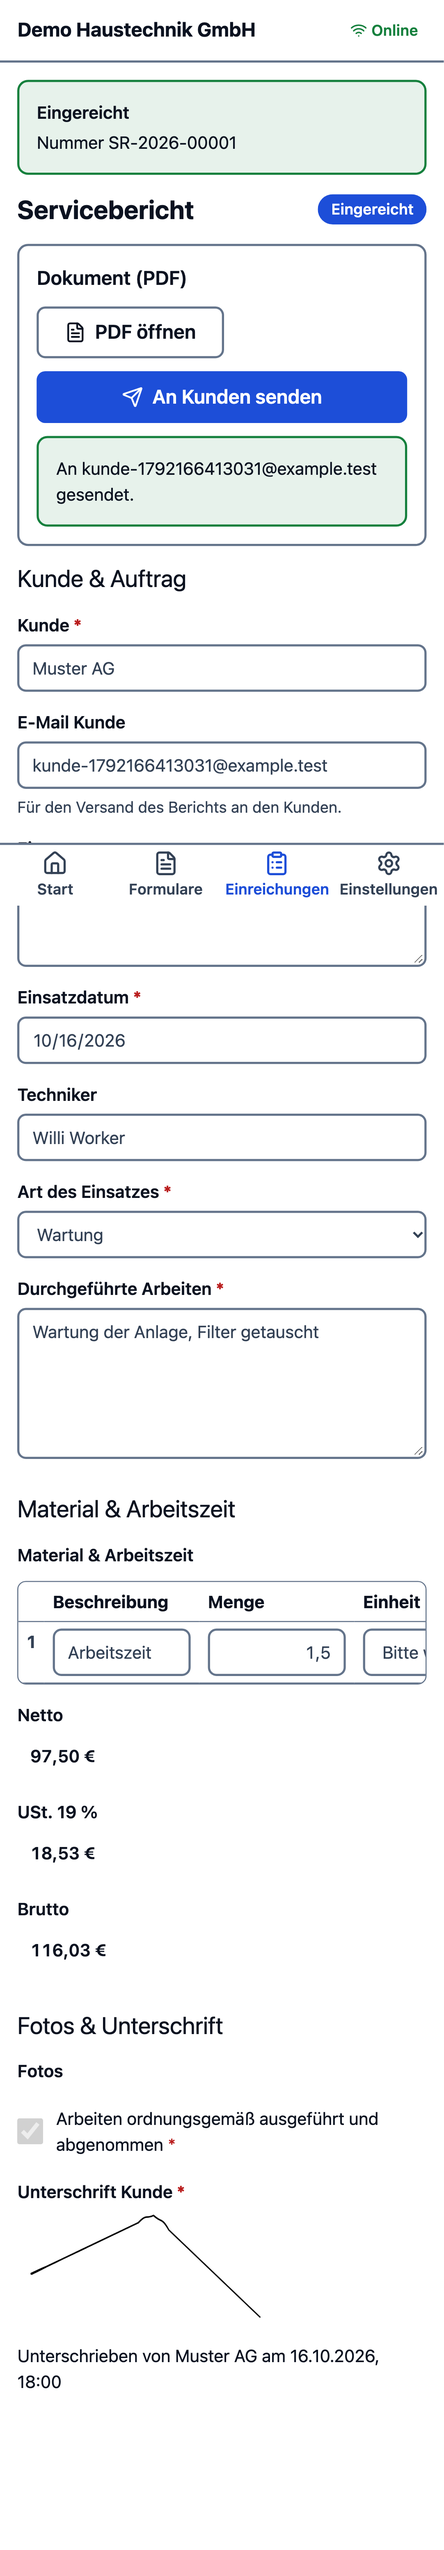
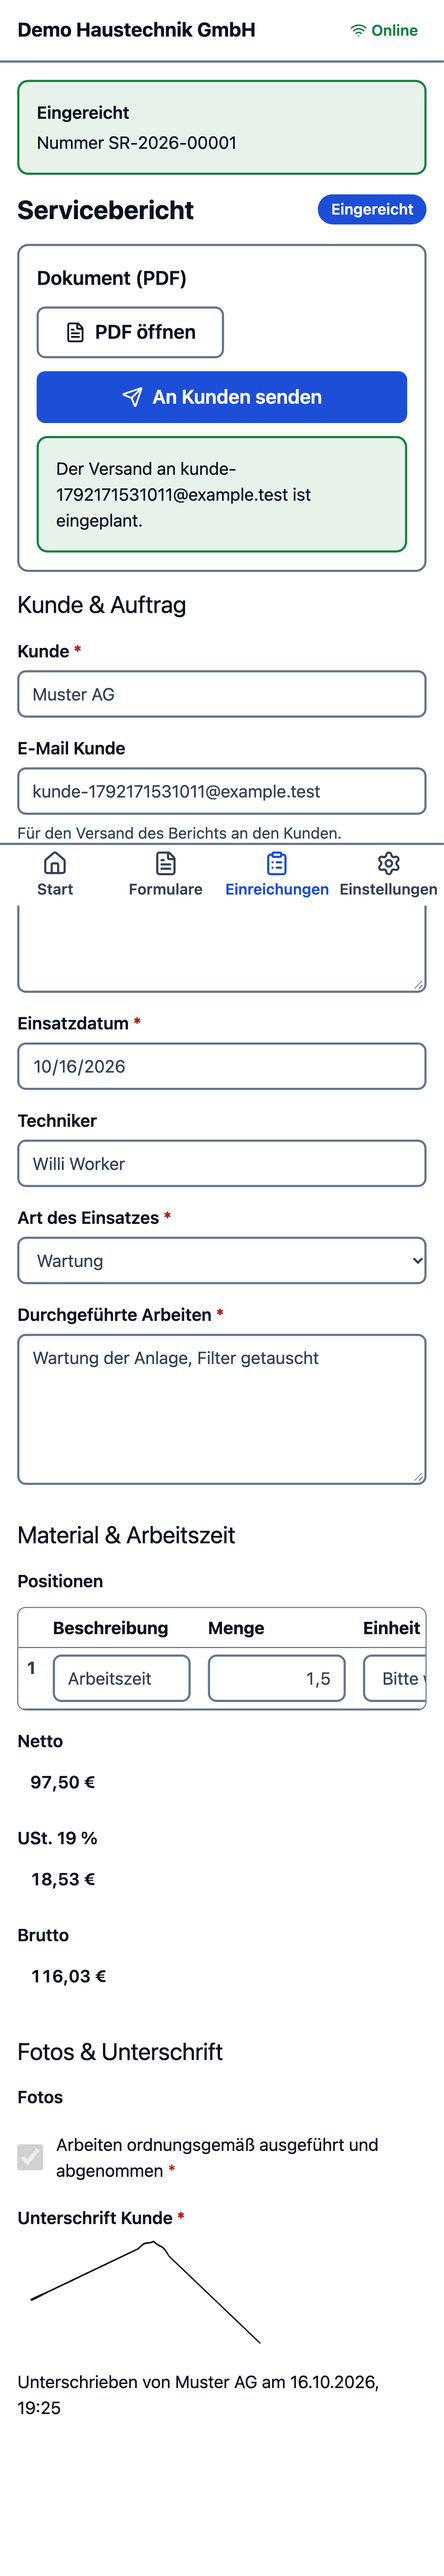
docs: M3 gate report

diff --git a/docs/agent/milestones/M3.md b/docs/agent/milestones/M3.md
@@ -1,0 +1,77 @@
+# M3 Documents + email — gate report (2026-10-17)
+
+## What was built
+- **Branding** (page "Branding"): sniffed, re-encoded logo on the private disk, primary/accent colours
+  with a live contrast warning, four bundled OFL fonts (resources/fonts, licences included), company
+  details (single source; the organization profile no longer edits them).
+- **Designs**: `designs` + immutable `design_versions` (DB trigger), publish/rollback (N+1)/diff/retire,
+  default design per organization, Filament resource (paper, orientation, margins, header/footer rich
+  text with escaped tokens, layout, repeaters, photo grid, empty fields, signature placement, watermark).
+- **Rendering** (ADR 0028): canonical input → Blade + print CSS → Gotenberg (no network, JavaScript off),
+  tagged PDF with real headings, `th scope`, alt texts and full locale; repeated table headers,
+  `keepTogether`, no truncation; inlined assets (photos ≤ 1600 px, EXIF orientation, 25 MP limit), 25 MB
+  budget; Intl formatting without floats; contrast-safe brand colours.
+- **Renditions**: immutable (input_hash, file_sha256, form/design/renderer versions, page count),
+  generated on submit, idempotent per request, design version pinned by the first rendition; failures
+  recorded (409 `document_failed`, inbox notice, audit) and a sweep re-dispatches missing renders
+  (ADR 0031); `GET /api/v1/submissions/{uuid}/document` (signed 5-minute link, visibility re-checked).
+- **Builder "Preview PDF"** with sample data and the selected design.
+- **Mail** (ADR 0029): per-org sender name/reply-to, optional SMTP override (encrypted, IP-pinned with
+  SNI, port allow-list, password re-entry on host change), queued delivery with exactly-once claim and
+  deterministic Message-ID, `mail_messages` log with retry, branded Markdown mails with a safe token
+  replacer, test mail; document delivery as attachment (≤ 10 MB) or expiring link (14 days, 410).
+- **Send to customer** (§9.2): `POST /api/v1/submissions/{uuid}/send` (idempotent, 202, waits for the
+  PDF, caps per submission/organization), Field App dialog and document area, admin action.
+- **Admin**: submissions inbox (filters, §8.6 visibility — ADR 0030, detail with pinned labels,
+  attachments, events, renditions with re-render, sends), CSV member invitations, three new templates
+  (delivery note, timesheet, handover protocol).
+
+## Acceptance criteria → tests
+| Requirement | Test |
+|---|---|
+| §8.5 AC 60-line repeater across pages, repeated headers, correct totals | `tests/Feature/Documents/GotenbergIntegrationTest.php` |
+| §8.5 AC re-render after a design change uses the submission's design version | `GotenbergIntegrationTest.php`, `RenditionTest.php` |
+| §8.10 AC publishing never changes renditions; re-render same input_hash | `RenditionTest.php`, `tests/Unit/Documents/CanonicalInputTest.php` |
+| §8.5 designs versioned + rollback N+1 + immutability trigger | `DesignVersioningTest.php`, `DesignResourceTest.php` |
+| §8.5 budget, downscaling, tokens escaped, no network, tagged/semantic PDF | `ImageAndBudgetTest.php`, `TokenReplacerTest.php`, `DocumentSemanticsTest.php`, `ImageOrientationTest.php` |
+| §8.5 render failures visible | `RenditionFailureTest.php`, `RenditionSweepTest.php` |
+| §8.8 AC mail arrives in Mailpit with the PDF | `tests/Feature/Mail/MailpitIntegrationTest.php`, E2E `tests/e2e/m3-documents.spec.ts` |
+| §8.8 AC expired links → 410; failed send visible + retry | `DocumentDeliveryTest.php`, `MailLogResourceTest.php`, `DeliveryReliabilityTest.php` |
+| §8.8 From rule, per-org SMTP, SSRF guard | `SenderRulesTest.php`, `SmtpSecurityTest.php`, `MailSettingsPageTest.php` |
+| §9.2 send to customer (waiting → queued, limits, gate) | `tests/Feature/Api/Submissions/CustomerSendTest.php`, `CustomerSendLimitsTest.php`, `Mail/CustomerSendDeliveryTest.php`, `CustomerSendSafetyTest.php` |
+| §10 document endpoint, tenancy | `DocumentApiTest.php`, `tests/Support/TenantIsolation/ApiRouteCases.php` |
+| §8.12 inbox + §8.6 visibility row | `tests/Feature/Admin/Submissions/*` |
+| §8.12 CSV invitations | `tests/Feature/Identity/CsvInvitationTest.php` |
+| §7.6 templates | `tests/Feature/Forms/FieldTemplatesTest.php`, `TemplatesAndImportTest.php` |
+| §12 journey: submit in Field App → PDF in admin → email in Mailpit | E2E `tests/e2e/m3-documents.spec.ts` (3 steps) |
+
+## Gate results
+- PHP: 3346 tests green; coverage total 95.09 %, SDK 99.69 %, `Domain/Forms/Schema` 100 %,
+  tenancy 100 %; PHPStan level 8 and level 10 0 errors; Pint and Rector clean; licenses OK.
+- JS: form-schema-js 606, renderer 110, Field App 213 tests; typecheck, ESLint, Prettier, build clean;
+  conformance 391/391.
+- E2E: 12/12 (setup ×2, M0 ×3, M1 ×1, M2 ×3, M3 ×3) on the rebuilt Docker stack; evidence in
+  `evidence/M3/` (incl. a rendered page).
+
+## Reviews (security, backend correctness, UX/a11y)
+| Finding | Severity | Resolution |
+|---|---|---|
+| Render failures invisible, waiting sends hang | high | failure records, 409 `document_failed`, sweep (ADR 0031) |
+| Untagged PDF; no brand-colour contrast guard | high (a11y) | tagged PDF + semantics; contrast helpers + picker warning |
+| SMTP SSRF via DNS rebinding; stored password sent to a changed host | medium | IP pinning with SNI, port allow-list, password re-entry |
+| Mail double send (retry race, crash after send); expired links on retry | medium | atomic claim, `sending` state, Message-ID, link refresh |
+| Waiting send delivered for a voided or outdated submission | medium | gate + rendition freshness re-checked at delivery |
+| Send result not announced; name not clearable; admin links expire | medium | focus/live region after close; explicit empty name; links minted on click |
+| Caps, scrubbed errors, pixel limit, re-render throttle, JS off in Gotenberg, EXIF | low | implemented |
+| Compact labels overflow; empty cells; photos in table repeaters; mail wording; locale formats | low | fixed |
+
+Found during the gate itself: the dev worker could not reach Mailpit (compose), the coverage container
+could not reach Gotenberg/Mailpit or extract PDF text, the CI Rector step had drifted on ~70 files
+(applied, three rules skipped with reasons), and `ErrorText` corrupted texts under a short base path.
+
+## Deviations and known issues
+- Branding is not versioned (QUESTIONS #12).
+- The offline send queue in the Field App is M6 scope; offline it says the send was not requested.
+- Re-rendering a `changes_requested` submission path is latent until M4 (resubmit).
+- CI Gotenberg service cannot take `--chromium-disable-javascript` (GitHub service containers have no
+  command); compose sets it.

diff --git a/docs/agent/PLAN.md b/docs/agent/PLAN.md
@@ -69,11 +69,11 @@ AC refs point at BUILD_PROMPT sections. Test approach in brackets.
 - [x] M3-T05 "Preview PDF" in the builder with sample data — §8.2 [Livewire]
 - [x] M3-T06 Mail: per-org sender name/reply-to, optional SMTP override (encrypted) + test mail, queued branded Markdown mailables, `mail_messages` log with retry — §8.8 [feature with Mail fake + Mailpit integration]
 - [x] M3-T07 Document delivery: attachment up to a size limit or expiring signed link (default 14 days, 410 when expired) — §8.8 [feature]
-- [ ] M3-T08 Send to customer: `POST /submissions/{uuid}/send` queued until number + PDF exist; admin action — §9.2, §10 [feature]
+- [x] M3-T08 Send to customer: `POST /submissions/{uuid}/send` queued until number + PDF exist; admin action — §9.2, §10 [feature]
 - [x] M3-T09 Admin submissions inbox: list per form/org with status filters, detail view (data, attachments, events, renditions, re-render) — §8.12 [Livewire]
 - [x] M3-T10 Templates: delivery note, timesheet, handover protocol — §7.6 [template lint + publish tests]
 - [x] M3-T11 CSV bulk member invitations — §8.12 [feature]
-- [ ] M3-T12 Gate M3 (E2E: submit in Field App → PDF in admin → email arrives in Mailpit)
+- [x] M3-T12 Gate M3 (E2E: submit in Field App → PDF in admin → email arrives in Mailpit)
 
 ## M4 Workflows + notifications — break down at M3 gate
 - Workflow model + Builder steps; triggers; conditions; runs with snapshot + idempotency; steps send_email/notify/request_review/set_status/generate_document/webhook (HMAC, backoff, SSRF guard); tasks + review UI + API; run timeline + retry; notifications (db + mail, preferences, digest); field app tasks + notification center; E2E journey 4; MVP 0.x release notes.

diff --git a/docs/agent/LEARNINGS.md b/docs/agent/LEARNINGS.md
@@ -34,3 +34,5 @@
 29. PHPStan types `Carbon::locale()` as `string|static`; use `->settings(['locale' => …])` for a localized Carbon.
 30. Model strict mode (lazy-loading prevention) also bites policies called on collection items: preset relations with `setRelation()` or eager-load before authorizing each row.
 31. `documents.render_on_submit` is off in testing (no Gotenberg calls from unrelated tests); tests that need renditions (send to customer, documents) must enable it.
+32. Run `vendor/bin/rector --dry-run` in every gate: CI runs it and it had silently drifted on ~70 files. Skipped rules (rector.php): unused-parameter removal on policies (Gate passes args positionally), arrow-fn return types in tests (infers Pest mixin class), nullsafe coalesce (PHPStan nullsafe.neverNull).
+33. The coverage container runs at base path /app: string-replacing base_path() corrupts any text containing "/app/" — anchor path stripping to path starts.

diff --git a/docs/agent/JOURNAL.md b/docs/agent/JOURNAL.md
@@ -55,3 +55,11 @@
   templates + CSV invitations (63d5aca), documents: branding, designs, Gotenberg renditions, builder
   PDF preview (7abcf4b, ADR 0028). Shared routes/web.php committed per batch by staging a split copy.
 - Contract for send-to-customer (b56114a); backend + Field App agents implement it in parallel.
+
+## 2026-10-17 M3 gate
+- Integration: send to customer (API + Field App + admin), inbox documents, company details single
+  source, demo branding; E2E journey submit → PDF → send → Mailpit → inbox.
+- Reviews (security, correctness, UX/a11y): 3 high + ~25 medium/low fixed by two fix subagents
+  (9589753, c3051c6). Gate also fixed tooling: Mailpit for worker, coverage container services, CI Rector
+  drift (0f68661).
+- Gate: PHP 3346 tests, coverage 95.09 %, PHPStan 0/0, Rector/Pint clean, JS 606/110/213, E2E 12/12.
